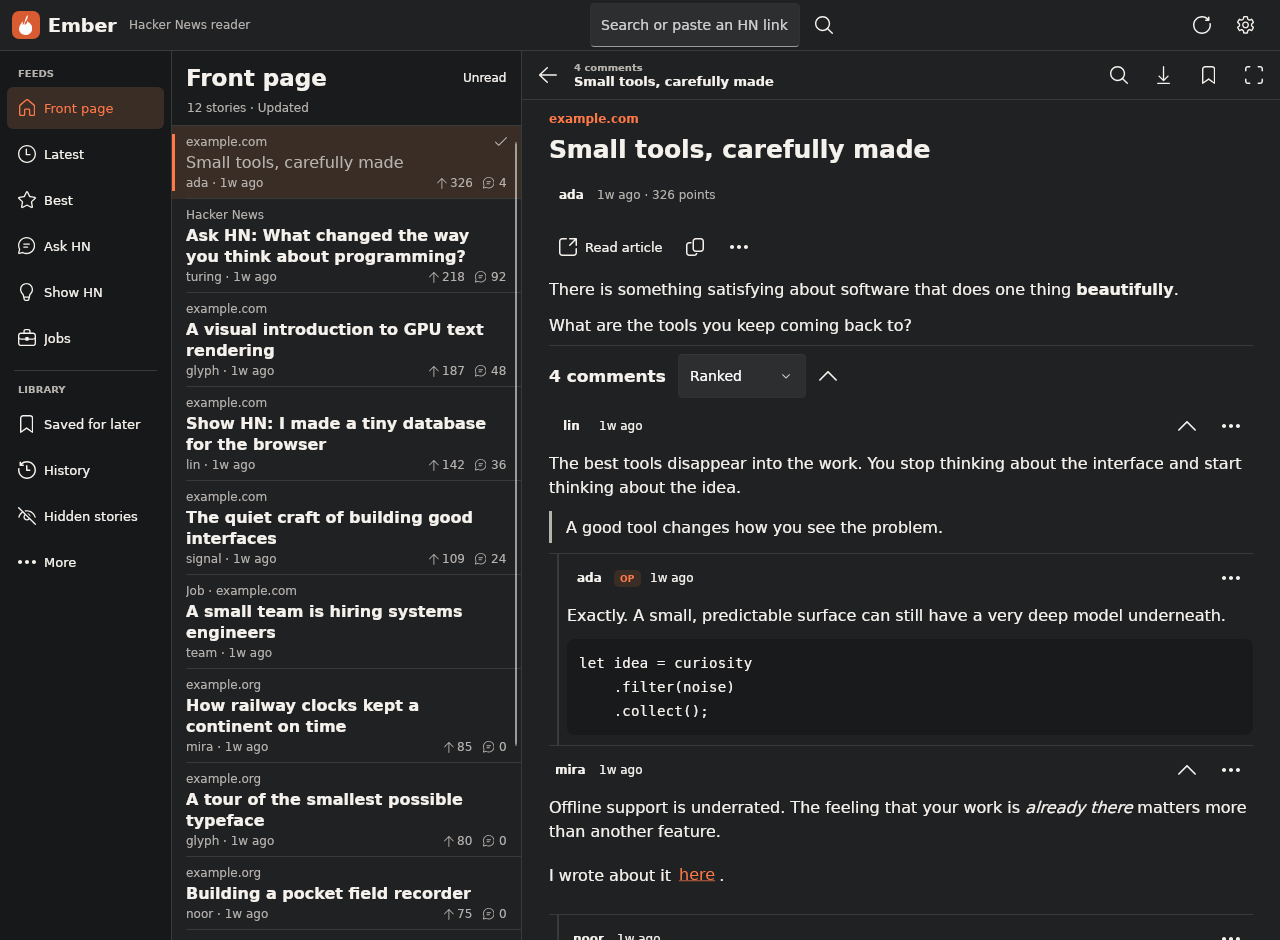
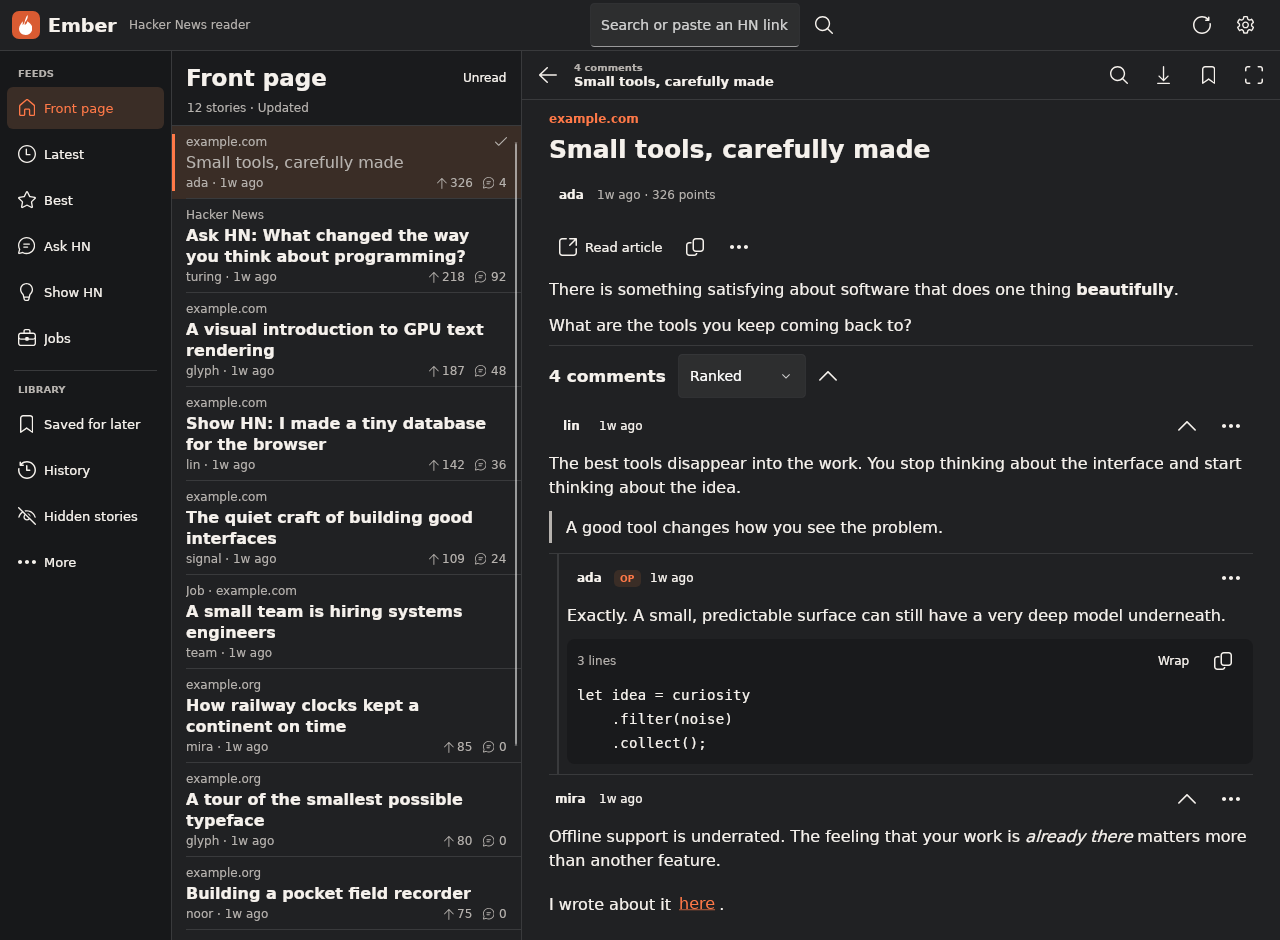
Show compact feed, swipe feedback, scoped search, and code tools in the reader gallery

Changed region(s): [[0.4375, 0.8021, 0.9688, 1.0], [0.4375, 0.6787, 0.5938, 0.8021], [0.9062, 0.6787, 0.9375, 0.7096]]

diff --git a/docs/ember.md b/docs/ember.md
@@ -18,10 +18,10 @@ All previews use deterministic Hacker News data. Chromium captured the release W
 
 | View | Previews |
 | --- | --- |
-| Reading | [Reading desk](images/ember-tablet-reading-desk.png) · [Dark desktop](images/ember-desktop-dark.png) · [Phone feed](images/ember-phone-dark.png) · [Landscape reader](images/ember-landscape-reader.png) · [Custom tablet theme](images/ember-tablet-custom.png) |
-| Discussions | [Phone discussion](images/ember-phone-comments.png) · [Focus reading with Find](images/ember-focus-find.png) · [New replies](images/ember-new-replies.png) |
+| Reading | [Reading desk](images/ember-tablet-reading-desk.png) · [Dark desktop](images/ember-desktop-dark.png) · [Phone feed](images/ember-phone-dark.png) · [Compact feed](images/ember-compact-feed.png) · [Swipe preview](images/ember-swipe-preview.png) · [Landscape reader](images/ember-landscape-reader.png) · [Custom tablet theme](images/ember-tablet-custom.png) |
+| Discussions | [Phone discussion](images/ember-phone-comments.png) · [Focus reading with Find](images/ember-focus-find.png) · [New replies](images/ember-new-replies.png) · [Code tools](images/ember-code-tools.png) · [Search this discussion](images/ember-discussion-search.png) |
 | Discovery and library | [Open a permalink](images/ember-open-link.png) · [Author profile](images/ember-desktop-profile.png) · [Explore on a phone](images/ember-phone-explore.png) · [Downloaded shelf](images/ember-phone-downloaded.png) · [Find in a collection](images/ember-library-find.png) |
-| Preferences | [Custom appearance](images/ember-tablet-settings.png) · [Text presets](images/ember-text-presets.png) · [Domain mute on a phone](images/ember-domain-mute.png) |
+| Preferences | [Custom appearance](images/ember-tablet-settings.png) · [Text presets](images/ember-text-presets.png) · [Domain mute on a phone](images/ember-domain-mute.png) · [Offline storage](images/ember-offline-storage.png) |
 
 The focus view keeps the discussion in a centered column as the window grows. The toolbar retains the story title while you read replies.
 
